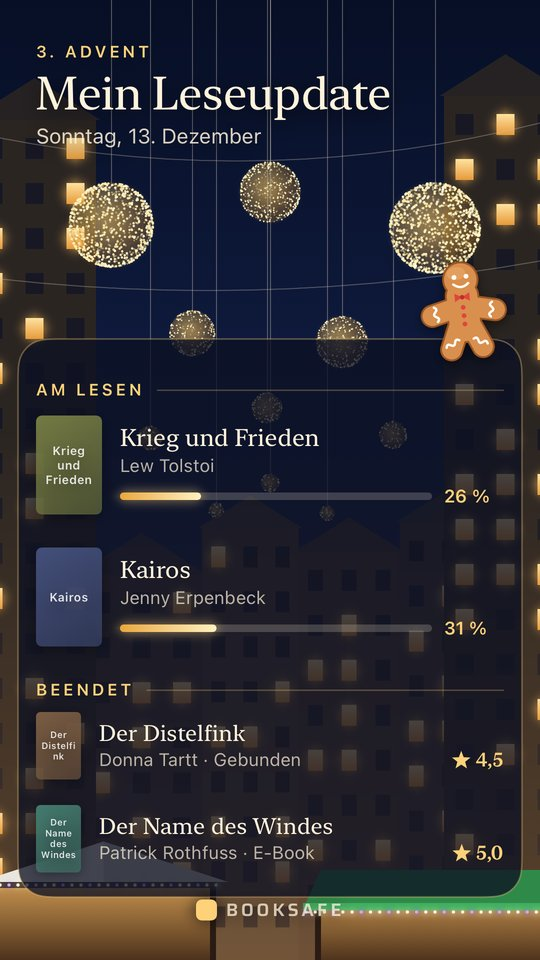
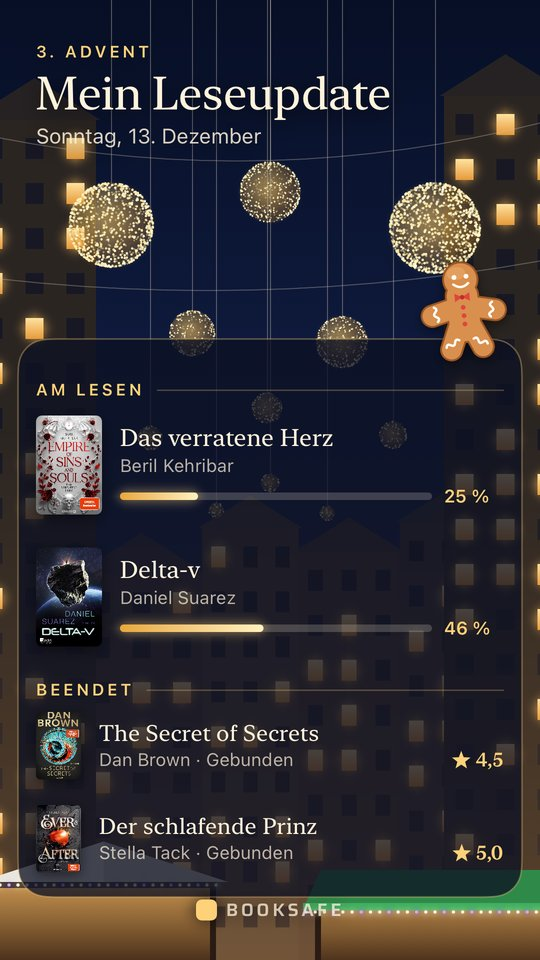
Landingpage 1.12: Motive mit echten Covern, Lichterkugeln-Bild entfernt
Fabian 15.11.: auf den Screenshots immer Cover zeigen. Bücher und Cover aus der
kuratierten Screenshot-Bibliothek. „Lichterkugeln“ zeigt by design keine Cover
(die Kugel ist das Buch) — Bild entfällt, das Design steht im Text.

Claude-Session: https://claude.ai/code/session_01EKDeymuDWrpAY2jz6ok5KW

diff --git a/en/whats-new-1-12/index.html b/en/whats-new-1-12/index.html
@@ -221,15 +221,11 @@
     </div>
 
     <h3><span class="num">4</span>Two Christmas designs for your reading update</h3>
-    <p><strong>“City Lights”</strong> and <strong>“Glow Spheres”</strong>: glowing spheres above an old-town lane, plus a gingerbread man. During Advent, the Advent week appears on the card.</p>
-    <div class="film-figure two">
+    <p><strong>“City Lights”</strong> shows your books with their covers in front of an old-town lane with glowing spheres and a gingerbread man. In <strong>“Glow Spheres”</strong>, each book you’re reading becomes a glowing sphere that lights up as far as you’ve read. During Advent, the Advent week appears on the card.</p>
+    <div class="film-figure one">
       <figure>
         <picture><source srcset="../../assets/en-leseupdate-citylights.webp" type="image/webp"><img src="../../assets/en-leseupdate-citylights.jpg" alt="Reading update in the City Lights design: old town with glowing spheres, a gingerbread man, Advent week 3, books in progress and finished" loading="lazy" width="540" height="960"></picture>
         <figcaption>City Lights</figcaption>
-      </figure>
-      <figure>
-        <picture><source srcset="../../assets/en-leseupdate-glowspheres.webp" type="image/webp"><img src="../../assets/en-leseupdate-glowspheres.jpg" alt="Reading update in the Glow Spheres design: glowing spheres in front of the old town, books in progress and finished" loading="lazy" width="540" height="960"></picture>
-        <figcaption>Glow Spheres</figcaption>
       </figure>
     </div>
   </section>

diff --git a/neu-in-1-12/index.html b/neu-in-1-12/index.html
@@ -221,15 +221,11 @@
     </div>
 
     <h3><span class="num">4</span>Zwei Weihnachts-Designs für das Leseupdate</h3>
-    <p><strong>„Lichterstadt“</strong> und <strong>„Lichterkugeln“</strong>: Lichterkugeln über einer Altstadtgasse, dazu ein Lebkuchenmann. Im Advent steht der Adventssonntag auf der Karte.</p>
-    <div class="film-figure two">
+    <p><strong>„Lichterstadt“</strong> zeigt deine Bücher mit Cover vor einer Altstadtgasse mit Lichterkugeln und einem Lebkuchenmann. In <strong>„Lichterkugeln“</strong> wird jedes laufende Buch selbst zur Lichterkugel, die so weit leuchtet, wie du gelesen hast. Im Advent steht der Adventssonntag auf der Karte.</p>
+    <div class="film-figure one">
       <figure>
         <picture><source srcset="../assets/de-leseupdate-citylights.webp" type="image/webp"><img src="../assets/de-leseupdate-citylights.jpg" alt="Leseupdate im Design Lichterstadt: Altstadt mit Lichterkugeln, Lebkuchenmann, „3. Advent“, Bücher am Lesen und beendet" loading="lazy" width="540" height="960"></picture>
         <figcaption>Lichterstadt</figcaption>
-      </figure>
-      <figure>
-        <picture><source srcset="../assets/de-leseupdate-glowspheres.webp" type="image/webp"><img src="../assets/de-leseupdate-glowspheres.jpg" alt="Leseupdate im Design Lichterkugeln: leuchtende Kugeln vor der Altstadt, Bücher am Lesen und beendet" loading="lazy" width="540" height="960"></picture>
-        <figcaption>Lichterkugeln</figcaption>
       </figure>
     </div>
   </section>

diff --git a/design/versionsseiten/build_pages.py b/design/versionsseiten/build_pages.py
@@ -723,7 +723,8 @@ def card_figure(lang, up, items):
         <picture><source srcset="{up}assets/{lang}-{key}.webp" type="image/webp"><img src="{up}assets/{lang}-{key}.jpg" alt="{html.escape(alt, quote=True)}" loading="lazy" width="540" height="960"></picture>
         <figcaption>{cap}</figcaption>
       </figure>""")
-    return '    <div class="film-figure two">\n' + "\n".join(figs) + "\n    </div>"
+    cls = "two" if len(figs) > 1 else "one"
+    return f'    <div class="film-figure {cls}">\n' + "\n".join(figs) + "\n    </div>"
 
 
 # 1.12: zwei Story-Karten nebeneinander.
@@ -739,8 +740,7 @@ def build_112(lang):
             ("kurzbewertung-citylights", "Kurzbewertung im Design Lichterstadt: Buch beendet, Sterne, Nummer im Lesejahr, Gedanken zum Buch, Stimmungen und Punkte", "Lichterstadt"),
             ("kurzbewertung-dreamy", "Kurzbewertung im Design Verträumt: „Zu Ende geträumt“ mit Sternbild, Gedanken auf einer Wolke, Stimmungen und Punkten", "Verträumt")])
         xmas = card_figure(lang, up, [
-            ("leseupdate-citylights", "Leseupdate im Design Lichterstadt: Altstadt mit Lichterkugeln, Lebkuchenmann, „3. Advent“, Bücher am Lesen und beendet", "Lichterstadt"),
-            ("leseupdate-glowspheres", "Leseupdate im Design Lichterkugeln: leuchtende Kugeln vor der Altstadt, Bücher am Lesen und beendet", "Lichterkugeln")])
+            ("leseupdate-citylights", "Leseupdate im Design Lichterstadt: Altstadt mit Lichterkugeln, Lebkuchenmann, „3. Advent“, Bücher am Lesen und beendet", "Lichterstadt")])
         body = f"""
   <section class="card lead">
     <h2>Worum es in diesem Update geht</h2>
@@ -763,7 +763,7 @@ def build_112(lang):
 {quick}
 
     <h3><span class="num">4</span>Zwei Weihnachts-Designs für das Leseupdate</h3>
-    <p><strong>„Lichterstadt“</strong> und <strong>„Lichterkugeln“</strong>: Lichterkugeln über einer Altstadtgasse, dazu ein Lebkuchenmann. Im Advent steht der Adventssonntag auf der Karte.</p>
+    <p><strong>„Lichterstadt“</strong> zeigt deine Bücher mit Cover vor einer Altstadtgasse mit Lichterkugeln und einem Lebkuchenmann. In <strong>„Lichterkugeln“</strong> wird jedes laufende Buch selbst zur Lichterkugel, die so weit leuchtet, wie du gelesen hast. Im Advent steht der Adventssonntag auf der Karte.</p>
 {xmas}
   </section>
 
@@ -798,8 +798,7 @@ def build_112(lang):
         ("kurzbewertung-citylights", "Quick review in the City Lights design: book finished, stars, number in your reading year, thoughts on the book, moods and scores", "City Lights"),
         ("kurzbewertung-dreamy", "Quick review in the Dreamy design: “Dreamt to the end” with a constellation, thoughts on a cloud, moods and scores", "Dreamy")])
     xmas = card_figure(lang, up, [
-        ("leseupdate-citylights", "Reading update in the City Lights design: old town with glowing spheres, a gingerbread man, Advent week 3, books in progress and finished", "City Lights"),
-        ("leseupdate-glowspheres", "Reading update in the Glow Spheres design: glowing spheres in front of the old town, books in progress and finished", "Glow Spheres")])
+        ("leseupdate-citylights", "Reading update in the City Lights design: old town with glowing spheres, a gingerbread man, Advent week 3, books in progress and finished", "City Lights")])
     body = f"""
   <section class="card lead">
     <h2>What this update is about</h2>
@@ -822,7 +821,7 @@ def build_112(lang):
 {quick}
 
     <h3><span class="num">4</span>Two Christmas designs for your reading update</h3>
-    <p><strong>“City Lights”</strong> and <strong>“Glow Spheres”</strong>: glowing spheres above an old-town lane, plus a gingerbread man. During Advent, the Advent week appears on the card.</p>
+    <p><strong>“City Lights”</strong> shows your books with their covers in front of an old-town lane with glowing spheres and a gingerbread man. In <strong>“Glow Spheres”</strong>, each book you’re reading becomes a glowing sphere that lights up as far as you’ve read. During Advent, the Advent week appears on the card.</p>
 {xmas}
   </section>
 
